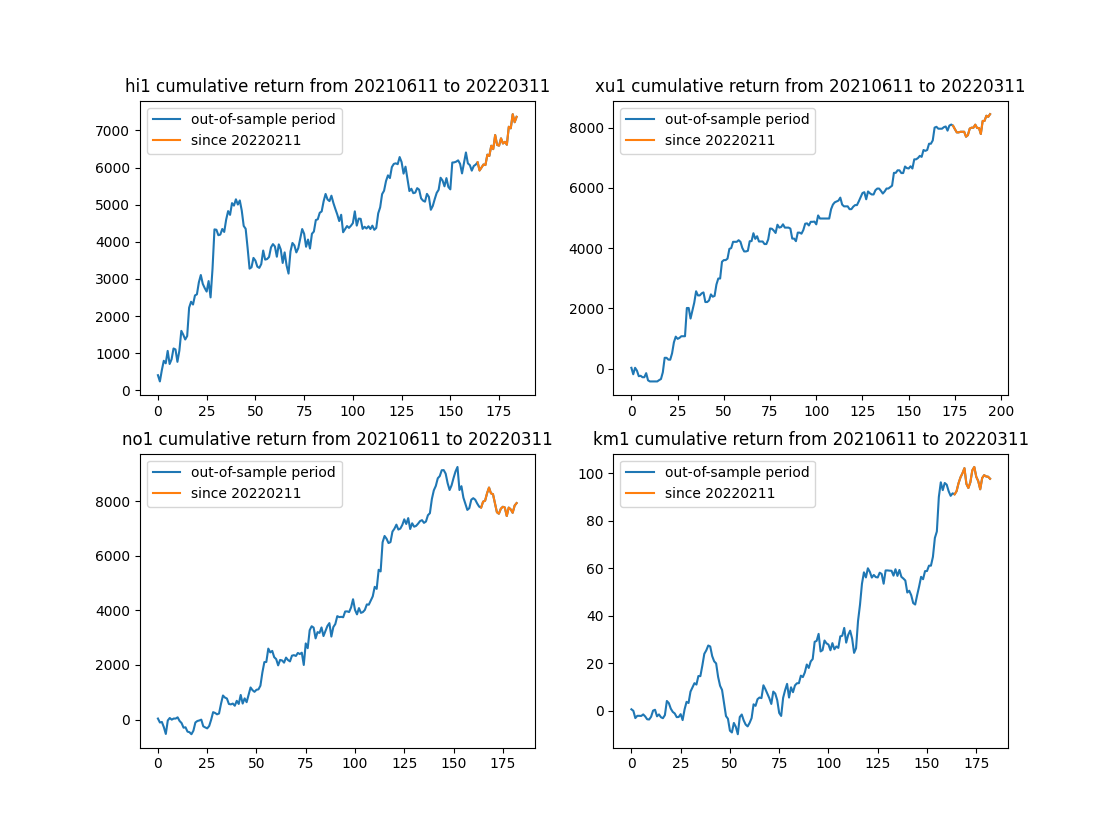
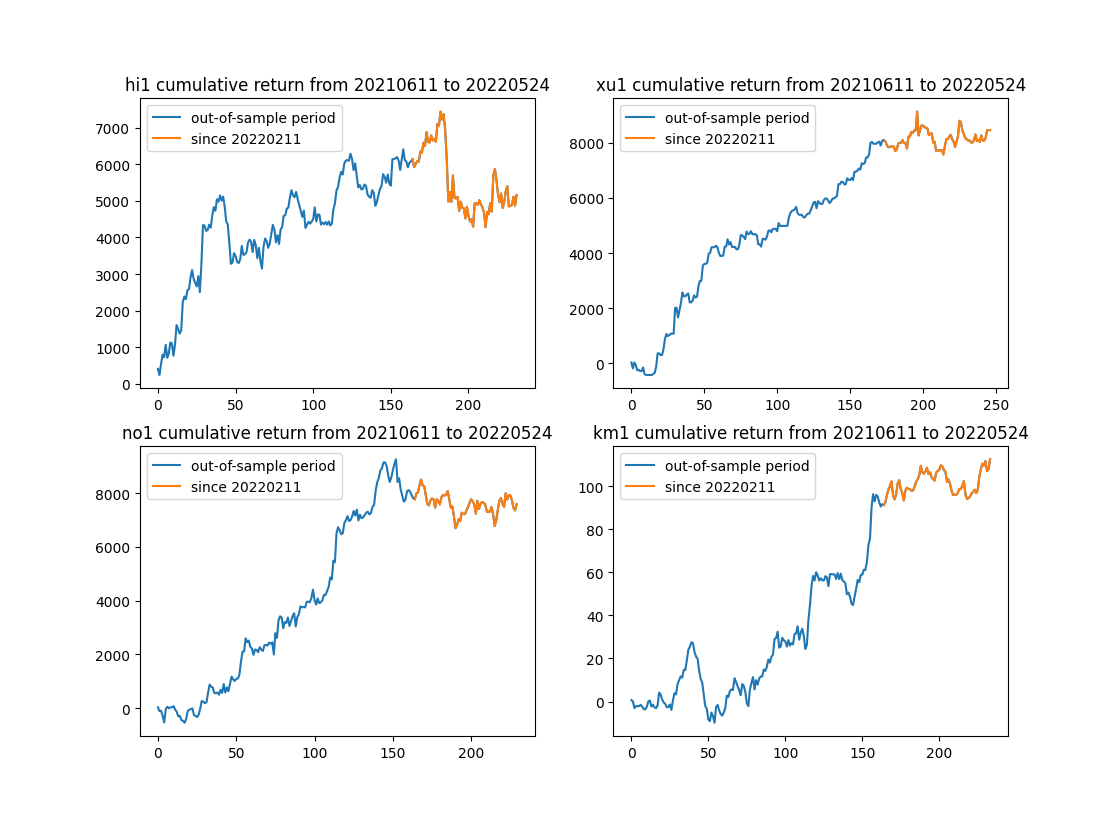
update

diff --git a/data_science_20220220.html b/data_science_20220220.html
@@ -129,7 +129,7 @@
       <img class="img-fluid" src="img/data_science/20220220/img5.png" alt="">
     </a>
 
-    <span class="caption text-muted">updated on 20220311.</span>
+    <span class="caption text-muted">updated on 20220524.</span>
 
     <p>After we calculate the trading profit, all of them have a positive return, and those returns can replicate in real trading, we can claim that our model has prediction power in the out-of-sample period.</p>
 
